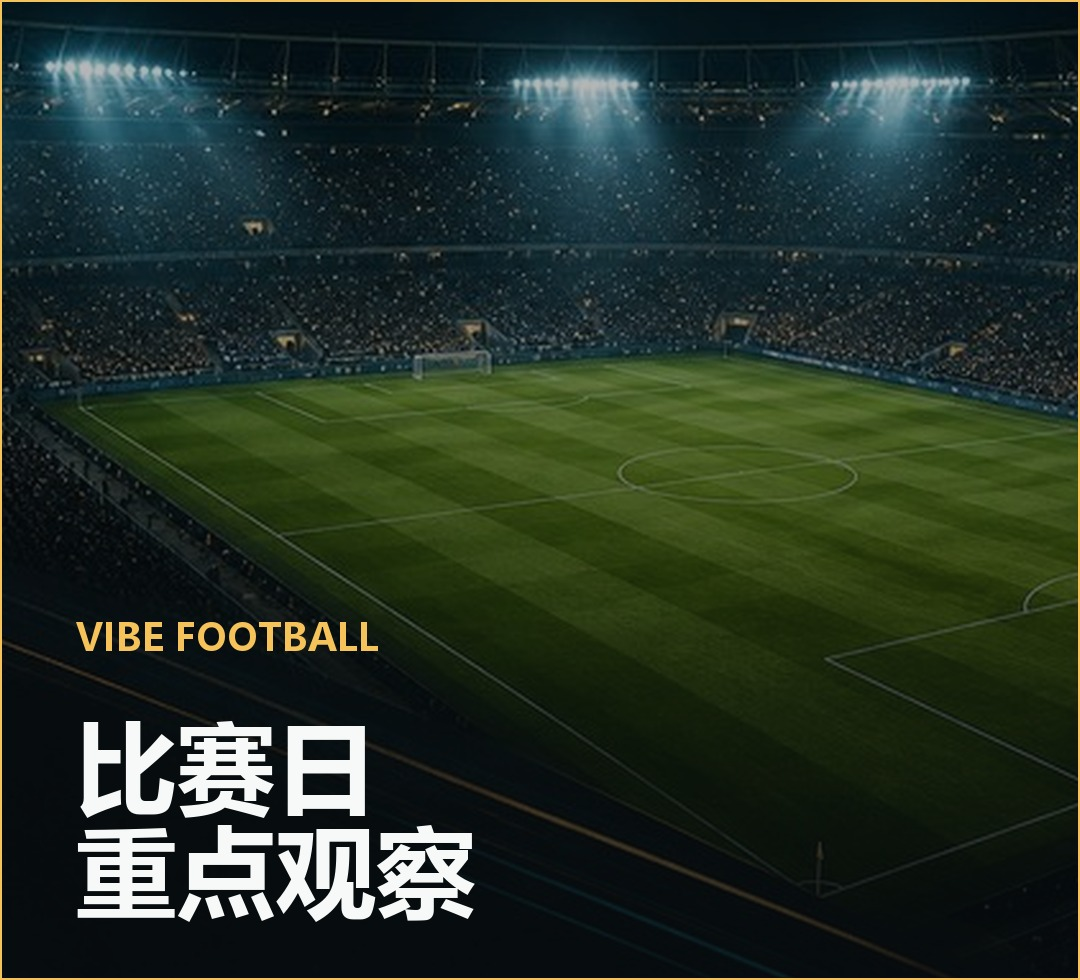
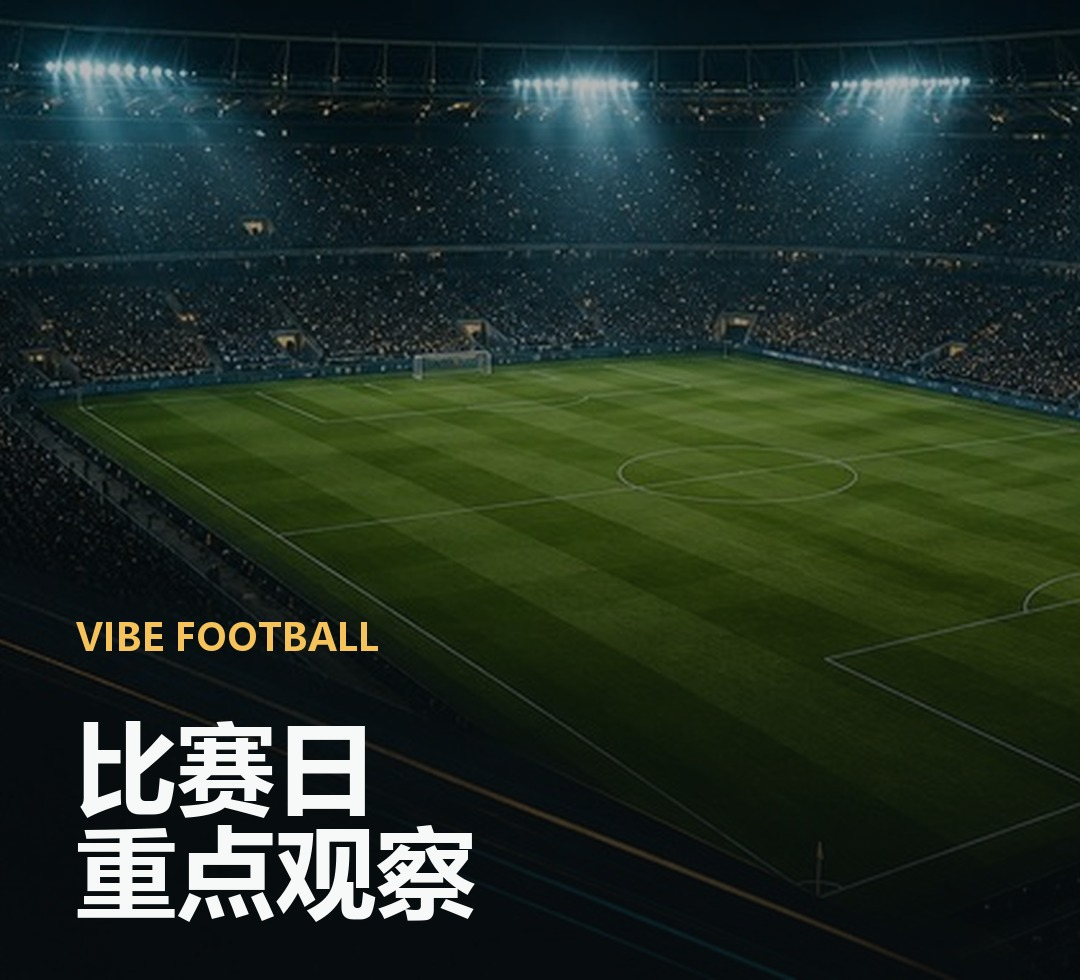
Align WeChat style sample header

diff --git a/tools/push_wechat_style_samples.py b/tools/push_wechat_style_samples.py
@@ -60,11 +60,8 @@ def block(title: str, body: str, *, color: str = "#f6c35b", border: bool = True,
 
 def match_header_a() -> str:
     return """
-    <section style="margin:0 0 10px;padding:0 0 10px;border-top:1px solid rgba(255,255,255,0.16);">
-      <p style="margin:16px 0 2px;white-space:nowrap;color:#ffffff;font-size:18px;line-height:1.35;font-weight:900;">
-        <span style="color:#f6c35b;font-size:21px;font-weight:900;">03:00</span>
-        <span style="color:#ffffff;font-size:18px;font-weight:900;">　墨西哥 vs 南非</span>
-      </p>
+    <section style="margin:0 0 9px;padding:0 0 7px;">
+      <p style="margin:0 0 2px;white-space:nowrap;color:#ffffff;font-size:17px;line-height:1.35;font-weight:900;"><span style="color:#f6c35b;font-size:21px;font-weight:900;">03:00</span><span style="color:#ffffff;font-size:17px;font-weight:900;">&nbsp;&nbsp;墨西哥 vs 南非</span></p>
       <p style="margin:0;white-space:nowrap;color:#c9d2cf;font-size:13px;line-height:1.5;font-weight:700;">A 组 · 墨西哥城</p>
     </section>
     """
@@ -97,8 +94,8 @@ def shell(hero_url: str, body: str) -> str:
     return f"""
     <section style="max-width:677px;margin:0 auto;padding:0;background:#0f1416;color:#ffffff;">
       <img src="{hero_url}" alt="Vibe Football 比赛日重点观察" style="display:block;width:100%;height:auto;margin:0;border:0;" />
-      <section style="padding:18px 16px 28px;background:#0f1416;">
-        <p style="margin:0 0 14px;color:#ffffff;font-size:22px;line-height:1.45;font-weight:900;">赛事前瞻</p>
+      <section style="padding:14px 20px 28px;background:#0f1416;">
+        <section style="margin:0 0 16px;border-top:1px solid rgba(255,255,255,0.16);height:0;line-height:0;font-size:0;"></section>
         {body}
         <section style="margin:20px 0 0;padding:12px 13px;background:rgba(246,195,91,0.10);border:1px solid rgba(246,195,91,0.24);border-radius:8px;">
           <p style="margin:0;color:#f6c35b;font-size:13px;line-height:1.75;">本文为赛前数据分析与观赛参考，不构成任何投注、投资或收益建议。</p>
@@ -183,8 +180,9 @@ def main() -> None:
     token = access_token()
     hero_url = upload_content_image(token, HERO_IMAGE)
     variant = sys.argv[1].strip().lower() if len(sys.argv) > 1 else "all"
-    if variant in {"a", "a2"}:
-        samples = [("样式测试A2｜目标微调", sample_a(hero_url))]
+    if variant in {"a", "a2", "a3"}:
+        title = "样式测试A3｜线条对齐" if variant == "a3" else "样式测试A2｜目标微调"
+        samples = [(title, sample_a(hero_url))]
     else:
         samples = [
             ("样式测试A｜无表格卡片", sample_a(hero_url)),